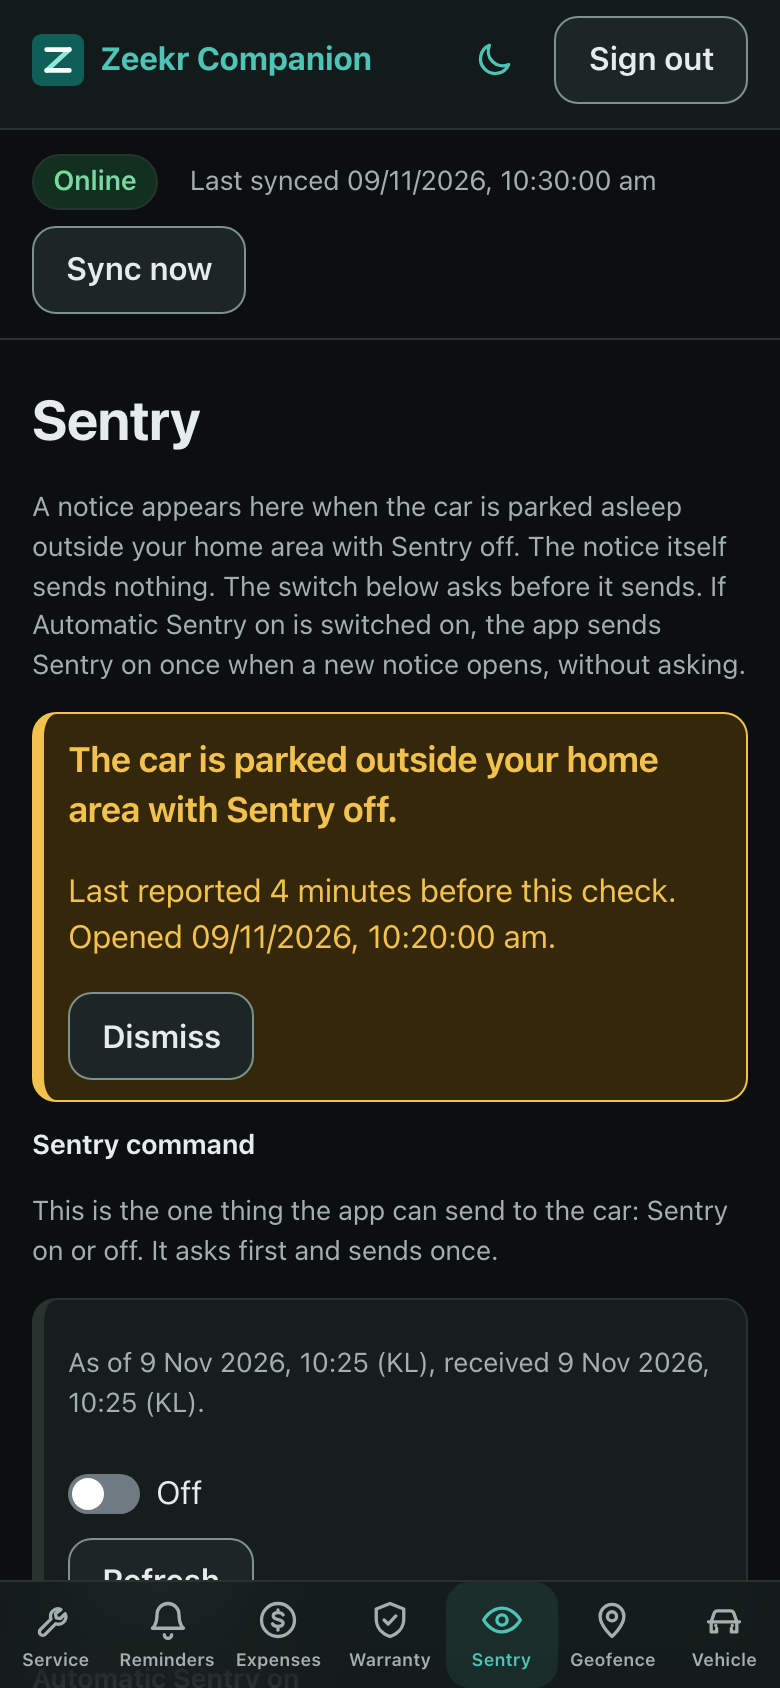
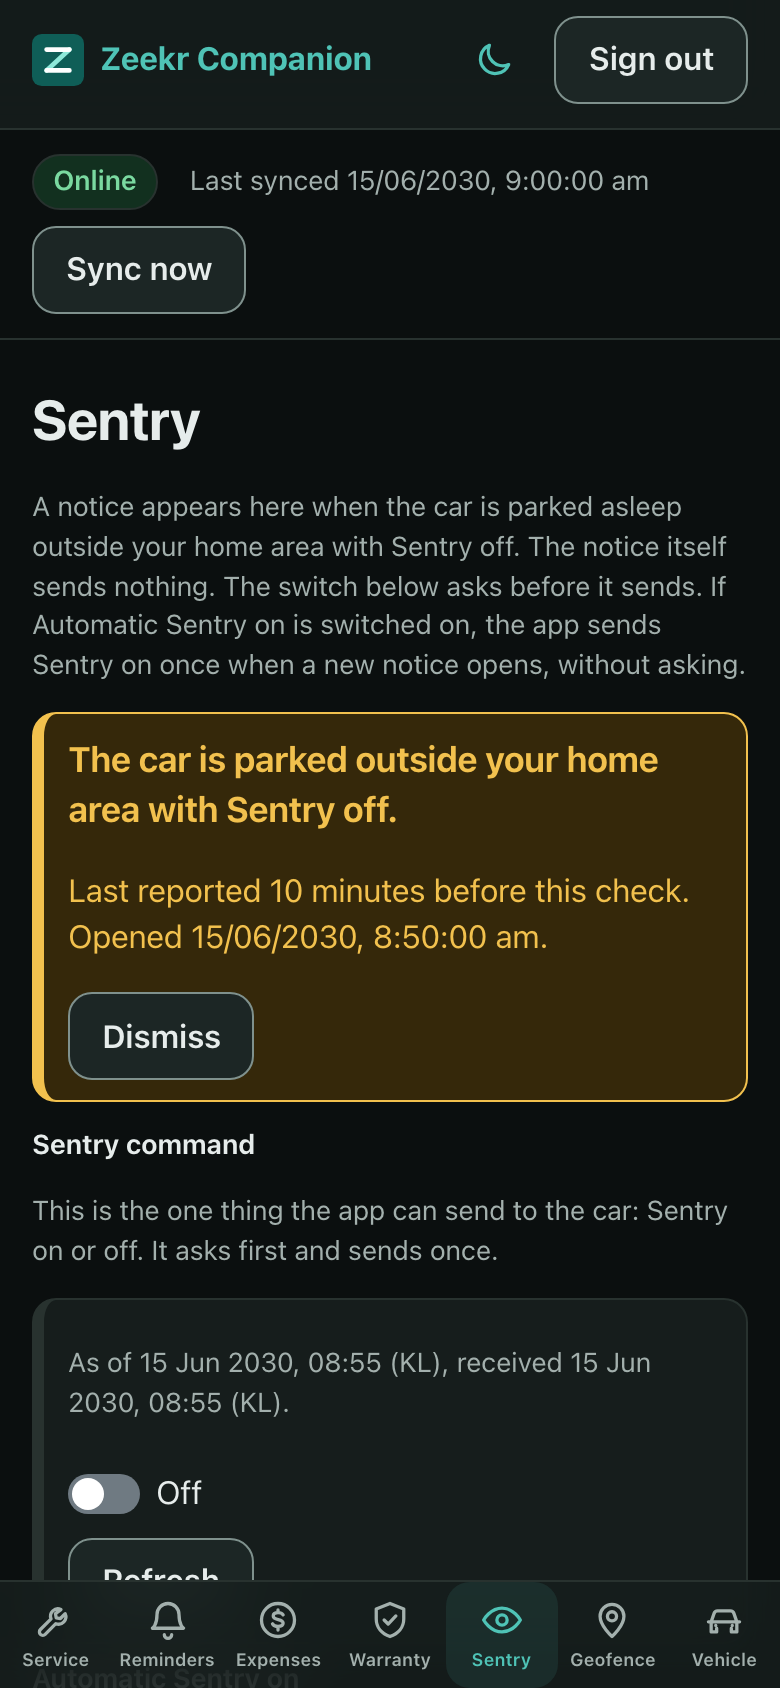
README screens: retake with fully synthetic data (no values from the owner's car or settings)

Changed region(s): [[0.2462, 0.5237, 0.8615, 0.5853], [0.0923, 0.8009, 0.8923, 0.8626], [0.4308, 0.0924, 0.8308, 0.1232]]

diff --git a/apps/web/screenshots/readme.shots.ts b/apps/web/screenshots/readme.shots.ts
@@ -2,31 +2,33 @@ import { expect, test, type Page, type Route } from '@playwright/test';
 import { mkdirSync } from 'node:fs';
 import { fileURLToPath } from 'node:url';
 
-// Every value below is made up for the screenshots. Nothing comes from a real car or account.
+// Every value below is synthetic. None of it is taken from the owner's car, account, settings or
+// history: a different variant and tyre size, dates in 2030, round invented readings and a
+// geofence setup the owner does not use.
 const OUT = fileURLToPath(new URL('../../../docs/screenshots/', import.meta.url));
-const NOW = new Date('2026-11-09T10:30:00+08:00');
-const STAMP = '2026-11-01T02:00:00Z';
-const READ_AT = '2026-11-09T02:25:00Z';
+const NOW = new Date('2030-06-15T09:00:00+08:00');
+const STAMP = '2030-06-01T01:00:00Z';
+const READ_AT = '2030-06-15T00:55:00Z';
 
 const vehicle = {
   id: 'aaaaaaaa-aaaa-4aaa-8aaa-aaaaaaaaaaaa',
   model: '7X',
-  variant: 'AWD Performance (2025)',
-  drive: 'AWD',
+  variant: 'RWD Long Range (2026)',
+  drive: 'RWD',
   steering: 'RHD',
   registration: null,
   vin: null,
-  purchase_date: '2025-03-15',
+  purchase_date: null,
   purchase_price_minor: 0,
   currency: 'MYR',
-  tyre_spec: '265/45 R20',
+  tyre_spec: '255/50 R19',
 };
 
 const record = (n: number, date: string, odometer: number, description: string, cost: number) => ({
   id: `b0000000-0000-4000-8000-00000000000${String(n)}`,
   date,
   odometer,
-  provider: 'Sample service centre',
+  provider: 'Example Motors (sample)',
   description,
   cost_minor: cost,
   currency: 'MYR',
@@ -35,9 +37,9 @@ const record = (n: number, date: string, odometer: number, description: string, 
   updated_at: STAMP,
 });
 const records = [
-  record(3, '2026-09-20', 18450, '20,000 km service: cabin filter, brake fluid check', 48000),
-  record(2, '2026-04-02', 10120, 'Tyre rotation and alignment', 18000),
-  record(1, '2025-09-18', 5030, 'First free service', 0),
+  record(3, '2030-05-10', 40000, 'Sample: 40,000 km service', 65000),
+  record(2, '2029-11-20', 30000, 'Sample: wiper blades and cabin filter', 22000),
+  record(1, '2029-05-02', 20000, 'Sample: 20,000 km service', 40000),
 ];
 
 const reminder = (n: number, over: Record<string, unknown>) => ({
@@ -59,20 +61,20 @@ const reminders = [
   reminder(1, {
     kind: 'road_tax_renewal',
     title: 'Road tax renewal',
-    due_date: '2026-11-05',
+    due_date: '2030-06-01',
     status: 'overdue',
     overdue_by: ['date'],
   }),
-  reminder(2, { title: '30,000 km service', due_date: '2027-03-20', due_odometer: 30000 }),
-  reminder(3, { kind: 'insurance_renewal', title: 'Insurance renewal', due_date: '2027-03-14' }),
-  reminder(4, { title: 'Tyre rotation', due_odometer: 20000 }),
+  reminder(2, { title: 'Sample: 60,000 km service', due_date: '2031-05-10', due_odometer: 60000 }),
+  reminder(3, { kind: 'insurance_renewal', title: 'Insurance renewal', due_date: '2030-09-01' }),
+  reminder(4, { title: 'Sample: tyre rotation', due_odometer: 50000 }),
 ];
 
 const tyres = (kpa: number) => ({
   driver_front: kpa,
-  passenger_front: kpa + 3,
-  driver_rear: kpa - 2,
-  passenger_rear: kpa + 1,
+  passenger_front: kpa,
+  driver_rear: kpa + 10,
+  passenger_rear: kpa + 10,
 });
 const liveCard = {
   status: 'ok',
@@ -81,16 +83,16 @@ const liveCard = {
   observed_at: READ_AT,
   received_at: READ_AT,
   readings: {
-    odometer_km: 18972,
-    battery_percent: 76,
-    range_km: 412,
+    odometer_km: 42000,
+    battery_percent: 60,
+    range_km: 300,
     plugged_in: false,
     charging: false,
-    tyres_kpa: tyres(250),
-    service_distance_km: 11028,
-    service_days: 131,
-    battery_12v_volts: 12.6,
-    tyres_celsius: { driver_front: 31, passenger_front: 32, driver_rear: 30, passenger_rear: 31 },
+    tyres_kpa: tyres(240),
+    service_distance_km: 8000,
+    service_days: 100,
+    battery_12v_volts: 12.5,
+    tyres_celsius: { driver_front: 30, passenger_front: 30, driver_rear: 30, passenger_rear: 30 },
     indicators: {
       pre_climate_active: false,
       fragrance_active: false,
@@ -106,22 +108,22 @@ const geofenceAlert = {
   id: 'c0000000-0000-4000-8000-000000000001',
   condition: 'sentry_off_outside_geofence',
   status: 'proposed',
-  inputs: { reading_age_minutes: 4 },
+  inputs: { reading_age_minutes: 10 },
   source_refs: [],
   explanation: null,
   explanation_status: 'disabled',
   urgency: null,
   suggestion: null,
   provenance: { rule_version: 1, prompt_version: null, model_id: null },
-  created_at: '2026-11-09T02:20:00Z',
-  updated_at: '2026-11-09T02:20:00Z',
+  created_at: '2030-06-15T00:50:00Z',
+  updated_at: '2030-06-15T00:50:00Z',
   decided_at: null,
 };
 
 const autoLog = [
   {
     id: 'd0000000-0000-4000-8000-000000000001',
-    created_at: '2026-11-02T06:40:00Z',
+    created_at: '2030-06-08T04:00:00Z',
     desired: 'on',
     result: 'sent',
     skip_reason: null,
@@ -131,7 +133,7 @@ const autoLog = [
 ];
 
 const geofence = {
-  settings: { radius_km: 5, interval_minutes: 5, stale_minutes: 30, usage_mode_codes: [0] },
+  settings: { radius_km: 8, interval_minutes: 10, stale_minutes: 20, usage_mode_codes: [1] },
   sources: {
     radius_km: 'saved',
     interval_minutes: 'saved',
@@ -155,10 +157,10 @@ const geofence = {
 };
 
 const odometer = {
-  km: 18972,
+  km: 42000,
   source: 'live_reading',
   service_record_id: null,
-  date: '2026-11-09',
+  date: '2030-06-15',
 };
 
 function answer(path: string): unknown {
@@ -180,7 +182,7 @@ function answer(path: string): unknown {
   if (path === '/vehicle/sentry/auto')
     return {
       enabled: true,
-      quiet_minutes: 60,
+      quiet_minutes: 120,
       host_allowed: true,
       can_enable: true,
       limits: { quiet_minutes: { min: 5, max: 1440 } },

diff --git a/docs/operations/deploy-plan.md b/docs/operations/deploy-plan.md
@@ -322,6 +322,7 @@ Push to GitHub, install anything on or connect to the host, create a Tailscale a
 - 2026-11-08, plain HTTP exception ended (owner-run, owner-reported; no output shown): `WEB_BIND_ADDRESS=127.0.0.1` set in the host's `infra/.env`, and the iPhone on cellular opens the app over HTTPS through the Tailscale sidecar. This ends the 2026-11-03 `0.0.0.0` exception; the README `docker port` and `ss` loopback checks should now pass on the host (not shown). **Not shown:** `docker port`, `serve status` and `funnel status` output, the admin-console access rule (phone to `tcp:443` only) and key expiry.
 - 2026-11-08, Tyres slice built locally (FR-9, AC-75 to AC-86; owner approved the design and answers T1 to T6; **not deployed, not pushed**). New table `tyre_event` (migration `0017`, revises `0016`) and routes `/api/v1/tyre-events`; web pages under `/vehicle/tyres`, linked from the Vehicle page Tyres group. Tyre costs are never copied into Expenses, and the page says so. "Add rotation reminder" opens the normal Add reminder form prefilled and saves nothing by itself. **The migration needs a fresh encrypted export first.** Then the owner runs `git pull` and `docker compose up -d --build --wait` from `infra/`. The backup dumps the whole database, so the new table is covered. API and web change; reload the app on the phone after deploying. **Not checked on the host or the iPhone.**
 - 2026-11-08, deploy guide and ADR-012 brought up to date (owner request; docs only, nothing to deploy). The "Install from published images" section said "Not run yet. No image has been published". The release workflow has in fact run successfully for every tag from `v0.1.0` to `v0.1.10`, and both `v0.1.10` packages list `linux/amd64` and `linux/arm64` and can be pulled without a login (checked from the Mac against the registry). Also recorded: the owner reports `v0.1.10` working on the arm64 host, and that the Tyres link was missing only until a vehicle profile was added (it is shown only with a profile). **Not checked:** a fresh install from images on a clean host.
+- 2026-11-09, README sample screens retaken with fully synthetic data (owner request): a different variant (RWD Long Range (2026)) and tyre size, dates in 2030, round invented readings, records and reminders labelled "Sample", and geofence settings the owner does not use. No value is taken from the owner's car, settings or history. **Not pushed.**
 - 2026-11-09, README sample screens (owner request and answers: Vehicle, Service history, Reminders, Sentry and Geofence; iPhone 390 px, light and dark; a rerunnable script, not in CI; **not pushed**). `npm run screenshots` in `apps/web` builds the app and runs `screenshots/readme.shots.ts` with `playwright.screenshots.config.ts`. Every API request is answered in the browser with made-up data, so no API, database or car is used. Output: `docs/screenshots/*.png`, shown in the README "Screens" section. The e2e gate does not run it. Nothing to deploy.
 - 2026-11-08, vehicle profile dropdowns (owner request and answers: Black Nova with 265/45 R20, dropdowns only, drive editable, model year appended to the variant; AC-87 to AC-90; **not deployed, not pushed**). The vehicle form now has Variant, Model year, Drive and Tyre specification dropdowns, from `apps/web/src/lib/vehicleCatalogue.ts` (research M43, `unverified`). Web only: no API, contract or migration change, so no export needed. A rebuild of `web` picks it up; reload the app on the phone afterwards. An older free-text variant or tyre value is kept as a "Current" option. **Not checked on the iPhone** (deferred, not run).
 - 2026-11-08, geofence alert on a real asleep-and-away stay (owner-reported in chat; no log lines, page text or screenshots shown). **Away:** with the car in Deep Sleep, gear in P and more than 5 km from home, Sentry was turned on automatically. **At home:** with the car in Deep Sleep and gear in P but within 5 km of home, Sentry was not turned on. So the rule held both ways on the real car under the current rule (ADR-011 amendment 2026-11-08), and this meets the ADR-011 condition of a real asleep-and-away stay, on the owner's word. **Not stated:** the dates and times, the running version (`v0.1.10` assumed, not shown), the `Geofence check:` log lines (`alert opened; automatic send: sent`), the reading age, the Sentry tab rows, whether the alert closed at the next check, and the host's `GEOFENCE_STALE_MINUTES`. **Still not run:** the Parked state (`usageMode '1'`, label `unverified`), dismissing an alert from a real away stay (dismissing the 2026-11-06 at-home false positive worked), and the iPhone check (deferred, not run).

diff --git a/README.md b/README.md
@@ -24,7 +24,7 @@ The only command the app can send to the car is Sentry on or off (ADR-010). Ever
 
 ## Screens
 
-iPhone width (390 px), light and dark. Every value shown is made up: no real car, account or location. To retake them, run `npm run screenshots` in `apps/web`. It needs no API or database because the script answers every request with sample data.
+iPhone width (390 px), light and dark. Every value shown is synthetic (an RWD Long Range in 2030 with invented readings and settings). None of it comes from a real car, account, location or history. To retake them, run `npm run screenshots` in `apps/web`. It needs no API or database because the script answers every request with sample data.
 
 | Vehicle | Service history | Reminders |
 |---|---|---|
